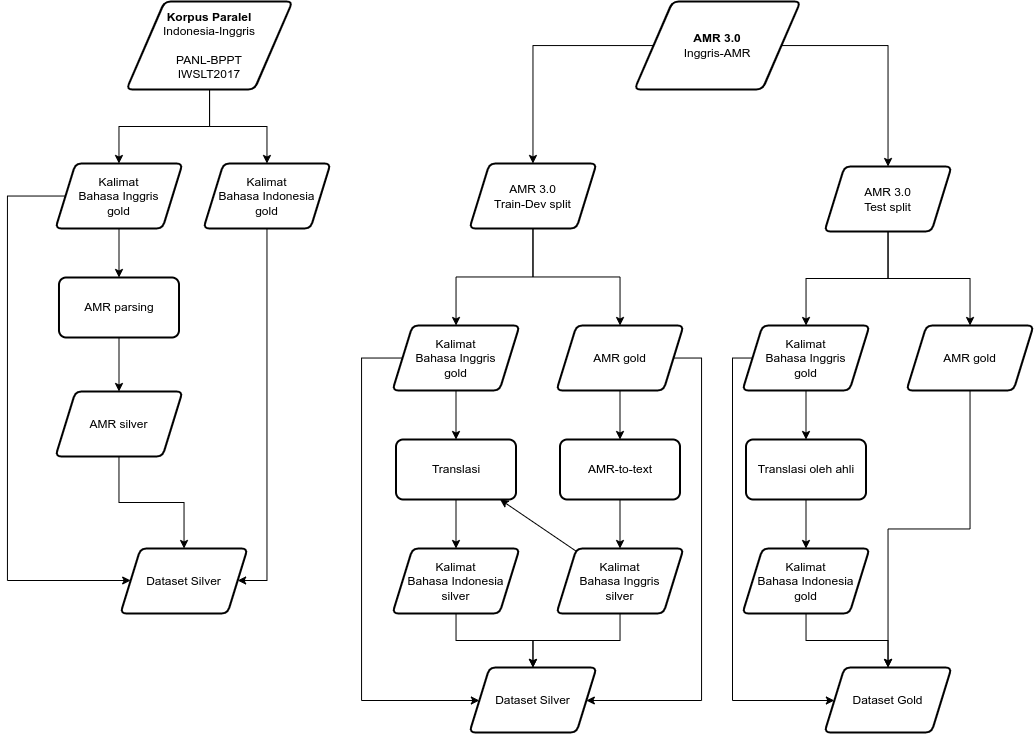
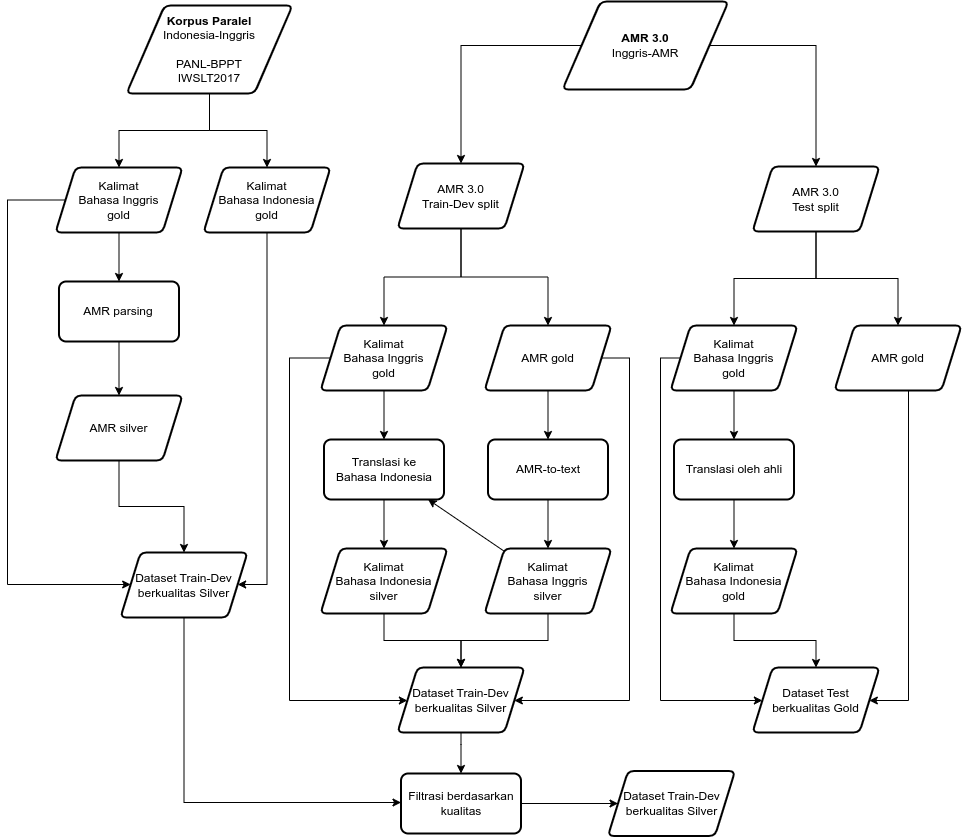
make some revisions

diff --git a/src/sections/chapter-3/3-rancangan-solusi.tex b/src/sections/chapter-3/3-rancangan-solusi.tex
@@ -5,7 +5,6 @@ Pada masalah kurangnya jumlah dataset yang digunakan sebagai data latih model, d
 Diagram alur keseluruhan proses konstruksi dataset gold dan silver dapat dilihat pada \cref{fig:3-dataset-construction}.
 Alur proses konstruksi dataset berkualitas silver mengikuti framework augmentasi data oleh \textcite{lee2022}.
 
-% TODO: Add filtration process.
 \fig[1]{3-dataset-construction}
   {sections/chapter-3/3-dataset-construction.png}
   {Diagram alur untuk konstruksi dataset gold dan silver dari korpus paralel dan dataset AMR.}
@@ -26,36 +25,58 @@ Model AMR-to-text yang digunakan adalah \gls{AMRBART}.
 Kalimat berbahasa Inggris hasil \ti{parsing} tersebut juga diubah menjadi kalimat berbahasa Indonesia dengan menggunakan mesin translasi.
 Maka akan terdapat dua pasangan kalimat berbahasa Inggris dan Indonesia untuk satu buah graf \AMR{}.
 Dua pasangan tersebut dilakukan \ti{cross join} untuk menghasilkan empat pasang data latih berkualitas silver.
-Hasil kumpulan kalimat yang dihasilkan akan digunakan sebagai dataset latih berkualitas silver.
 
-% TODO: Add quality measurement and filtration explanations.
+% Quality measurement and filtration.
+Kumpulan semua dataset silver tersebut kemudian dilakukan filtrasi dengan algoritma 1-NN dengan \cossim{} sebagai fungsi jarak antar representasi kalimatnya.
+Hasil filtrasi yang dihasilkan akan digunakan sebagai dataset latih.
+Dataset latih tersebut juga dihitung kualitasnya menggunakan rata-rata \cossim{}.
 
 % Dataset Gold
 Augmentasi data untuk konstruksi dataset berkualitas gold mengambil bagian Test \ti{split} dari AMR 3.0.
 Bagian kalimat berbahasa Inggris dari Test \ti{split} ditranslasi menjadi Bahasa Indonesia oleh ahli.
 Hasil kalimat berbahasa Indonesia tersebut berkualitas gold dan digunakan sebagai dataset test.
 
-% \fig[0.8]{3-xl-amr-training-schema}
-%   {sections/chapter-3/3-xl-amr-training-schema.png}
-%   {Model pelatihan \crosslingual{} dengan skema bilingual untuk Bahasa Indonesia.}
+\newcommand\graphMasked{\codesm{\textcolor[rgb]{0,.33,0}{<g>$g_1$,..[mask]..,$g_m$</g>}}}
+\newcommand\graphBarMasked{\codesm{\textcolor[rgb]{0,.33,0}{<g>[mask]</g>}}}
+\newcommand\idTagged[1]{\codesm{\textcolor{purple}{<id>#1</id>}}}
+\newcommand\enTagged[1]{\codesm{\textcolor{blue}{<en>#1</en>}}}
+\newcommand\sTagged[1]{\codesm{\textcolor{purple}{<s>#1</s>}}}
 
 % Training Techniques
 Skema pelatihan yang digunakan hanya untuk yang melakukan \amrparsing{} dengan menggunakan skema \ti{bilingual}.
-Pada skema pelatihan \ti{bilingual}, diperlukan sedikit modifikasi untuk melakukan \pretraining{} graf pada teknik \gls{AMRBART}.
+Ilustrasi pelatihan dengan skema \ti{bilingual} dapat dilihat pada \cref{fig:3-bilingual-training-schema}
+Pelatihan dicoba dengan konfigurasi dengan dan tanpa \ti{concatenating}.
+Pada konfigurasi tanpa \ti{concatenating} tetap mengikuti teknik pelatihan sebelumnya yang dapat dilihat pada \cref{tab:3-pt-ft-strategies}.
+Sedangkan pada konfigurasi dengan \ti{concatenating}, diperlukan sedikit modifikasi untuk melakukan \pretraining{} graf pada teknik \gls{AMRBART}.
 Token \code{<s>} yang digunakan pada \gls{AMRBART} diganti menjadi kode bahasa yang digunakan.
 Bahasa Indonesia ditandai dengan token \code{<id>} dan Bahasa Inggris ditandai dengan token \code{<en>}.
-Sesuai dengan skema pelatihan \ti{bilingual}, kalimat berbahasa Indonesia dan Inggris dilinearisasi secara sejajar sebagai input \pretraining{} maupun \finetuning{}.
-Strategi \pretraining{} dan \finetuning{} untuk pelatihan graf model \amrparsing{} lintas bahasa tersebut dapat dilihat pada \cref{tab:3-pt-ft-strategies}.
+Kalimat berbahasa Indonesia dan Inggris dilinearisasi secara sejajar sebagai input \pretraining{} maupun \finetuning{}.
+Strategi \pretraining{} dan \finetuning{} untuk pelatihan graf model \amrparsing{} lintas bahasa tersebut dapat dilihat pada \cref{tab:3-pt-ft-strategies-with-concat}.
 Output dari pelatihan tersebut merupakan graf \AMR{} yang dilinearisasi, yaitu \code{<g>$g_1$,..,$g_m$</g>}.
 Linearisasi graf menggunakan algoritma \gls{DFS} \citek{bevilacqua2021}.
 
-\newcommand\graphMasked{\codesm{\textcolor[rgb]{0,.33,0}{<g>$g_1$,..[mask]..,$g_m$</g>}}}
-\newcommand\graphBarMasked{\codesm{\textcolor[rgb]{0,.33,0}{<g>[mask]</g>}}}
-\newcommand\idTagged[1]{\codesm{\textcolor{red}{<id>#1</id>}}}
-\newcommand\enTagged[1]{\codesm{\textcolor{blue}{<en>#1</en>}}}
+\fig[0.6]{3-bilingual-training-schema}
+  {sections/chapter-3/3-bilingual-training-schema.png}
+  {Pelatihan dengan skema \ti{bilingual}.}
 
-% TODO: Colorize
 \begin{filecontents*}{3-pt-ft-strategies.csv}
+Phase,Task,Input
+PT,\code{$\bar{t}\hat{g}2g$},\makecell[cl]{\sTagged{[mask]}\graphMasked{}}
+,\code{$t\hat{g}2g$},\makecell[cl]{\sTagged{$a_1$,..,$a_n$}\graphMasked{}}
+,\code{$\hat{t}\hat{g}2g$},\makecell[cl]{\sTagged{$a_1$,..[mask]..,$a_n$}\graphMasked{}}
+FT,\code{$t\bar{g}2g$},\makecell[cl]{\sTagged{$a_1$,..,$a_n$}\graphMasked{}}
+\end{filecontents*}
+\tabl{3-pt-ft-strategies}
+  {3-pt-ft-strategies.csv}
+  {
+    Strategi \pretraining{} (PT) dan \finetuning{} (FT) untuk pelatihan graf model \amrparsing{} lintas bahasa pada skema pelatihan \ti{bilingual}.
+    \code{$t/g$} merupakan teks/graf \ti{original}.
+    \code{$\hat{t}/\hat{g}$} merupakan teks/graf yang \ti{noisy} (hasil \denoising{}).
+    \code{$\bar{t}/\bar{g}$} merupakan teks/graf yang hilang.
+    Semua output dari pelatihan ini adalah bentuk graf yang utuh.
+  }
+
+\begin{filecontents*}{3-pt-ft-strategies-with-concat.csv}
 Phase,Task,Input
 PT,\code{$\bar{t}_{_{ID}}\bar{t}{_{_{EN}}}\hat{g}2g$},\makecell[cl]{\idTagged{[mask]}\enTagged{[mask]}\graphMasked{}}
 ,\code{$t_{_{ID}}\bar{t}{_{_{EN}}}\hat{g}2g$},\makecell[cl]{\idTagged{$a_1$,..,$a_{n_1}$}\enTagged{[mask]}\graphMasked{}}
@@ -65,17 +86,27 @@ PT,\code{$\bar{t}_{_{ID}}\bar{t}{_{_{EN}}}\hat{g}2g$},\makecell[cl]{\idTagged{[m
 ,\code{$\hat{t}{_{_{ID}}}t_{_{EN}}\hat{g}2g$},\makecell[cl]{\idTagged{$a_1$,..[mask]..,$a_{n_1}$}\enTagged{$b_1$,..,$b_{n_2}$}\graphMasked{}}
 ,\code{$\hat{t}{_{_{ID}}}\hat{t}{_{_{EN}}}\hat{g}2g$},\makecell[cl]{\idTagged{$a_1$,..[mask]..,$a_{n_1}$}\enTagged{$b_1$,..[mask]..,$b_{n_2}$}\graphMasked{}}
 FT,\code{$t_{_{ID}}\bar{t}{_{_{EN}}}\bar{g}{}2g$},\makecell[cl]{\idTagged{$a_1$,..,$a_{n_1}$}\enTagged{[mask]}\graphBarMasked{}}
+,\code{$\bar{t}{_{_{ID}}}t_{_{EN}}\bar{g}{}2g$},\makecell[cl]{\idTagged{[mask]}\enTagged{$b_1$,..,$b_{n_2}$}\graphBarMasked{}}
 \end{filecontents*}
-\tabl{3-pt-ft-strategies}
-  {3-pt-ft-strategies.csv}
+\tabl{3-pt-ft-strategies-with-concat}
+  {3-pt-ft-strategies-with-concat.csv}
   {
-    Strategi \pretraining{} (PT) dan \finetuning{} (FT) untuk pelatihan graf model \amrparsing{} lintas bahasa pada skema pelatihan \ti{bilingual} dengan teknik data augmentasi \ti{concatenate}.
+    Strategi \pretraining{} (PT) dan \finetuning{} (FT) untuk pelatihan graf model \amrparsing{} lintas bahasa pada skema pelatihan \ti{bilingual} dengan konfigurasi \ti{concatenating}.
     \code{$t/g$} merupakan teks/graf \ti{original}.
     \code{$\hat{t}/\hat{g}$} merupakan teks/graf yang \ti{noisy} (hasil \denoising{}).
     \code{$\bar{t}/\bar{g}$} merupakan teks/graf yang hilang.
+    Semua output dari pelatihan ini adalah bentuk graf yang utuh.
   }
 
-% TODO: Explain data augmentation for masked pre-training language model.
+Pembangunan data latih silver ketika \pretraining{} dilakukan \ti{masking} secara dinamis ketika melakukan training \citek{bai2022}.
+Fungsi \ti{noising} dilakukan secara acak untuk melakukan \ti{masking} sebuah subgraf, 15\% bagian untuk \ti{masking} simpul (konsep), dan/atau 15\% untuk \ti{masking} sisi (relasi).
+Sebuah subgraf minimal memiliki satu simpul dan satu sisi.
+Setiap jenis \ti{noising} tersebut memiliki kemungkinan yang bertambah setiap \ti{step} pelatihan.
+Nilai kemungkinan tersebut dapat dilihat pada \cref{eq:masking-probability}.
+Nilai $p$ merupakan kemungkinan dilakukan \ti{noising}.
+Nilai $t$ merupakan iterasi pelatihan dan $T$ merupakan iterasi maksimal.
+
+\eq{masking-probability}{p = 0.1 + 0.75 \times t/T}
 
 Pelatihan \amrparsing{} akan dicoba pada beberapa \multil{} model.
 Model-model yang akan dicoba adalah mBART, mT5, IndoBART, dan IndoT5.

diff --git a/src/sections/chapter-2/4-2-ensemble.tex b/src/sections/chapter-2/4-2-ensemble.tex
@@ -4,15 +4,48 @@ Kenaikan kinerja dari \amrparsing{} dari penelitian-penelitian sebelumnya tidak 
 Ini dikarenakan efek dari self-learning dan augmentasi silver data mulai berkurang.
 Untuk mengatasi hal tersebut, \textcite{lee2022} mengusulkan untuk menggabungkan teknik \ti{ensemble} berbasis \SMATCH{} \citek{hoang2021} dengan \ti{ensemble distillation} untuk menghasilkan silver data berkualitas tinggi.
 
-Teknik \ti{ensemble} yang diusulkan oleh \textcite{hoang2021} dapat dilihat pada \cref{fig:4-2-graph-ensemble-example}.
+Teknik \ti{ensemble} yang diusulkan oleh \textcite{hoang2021} bernama Algoritma Graphene dapat dilihat pada \cref{fig:4-2-graph-ensemble-example}.
 Ide utamanya adalah dengan memperbaiki sebuah pivot graf berdasarkan graf yang dihasilkan oleh \ti{parser} lain.
 Dari pivot graf, dilakukan \ti{voting} untuk menghitung jumlah simpul dan sisi graf yang berkorelasi.
 Setelah dilakukan \ti{voting}, dipilih simpul dan sisi yang memiliki jumlah voting terbesar sebagai hasil akhir graf tersebut.
 Hal ini dilakukan berulang kali untuk masing-masing graf sebagai pivot awal.
+Tahapan algoritma ini dapat dilihat sebagai pseudo-code pada \cref{alg:4-2-ensemble}
 
 \fig[1]{4-2-graph-ensemble-example}
   {sections/chapter-2/4-2-graph-ensemble-example.png}
   {Ilustrasi teknik \ti{ensemble} \citek{hoang2021}.}
+
+% \alg{4-2-ensemble}{Algoritma Graphene untuk \ti{ensemble} graf \textcite{hoang2021}.}
+% {
+%   \textbf{Input:} a set of graphs $G = {g_1, g_2, ..., g_m}$ and the support threshold $\theta$
+%   \textbf{Output:} an ensemble graph $g^e$
+%   \textbf{Algorithm:} Graphene($G$,$\theta$)
+%   \For{$i \gets 1$ \textbf{to} $m$}
+%     \State $g_{pivot} \gets g_i$
+%     \State $V \gets$ Initialise($g_{pivot}$)
+%   \EndFor
+% }
+\begin{algorithm}
+  \caption{Algoritma Graphene untuk \ti{ensemble} graf \citek{hoang2021}.}
+  \label{alg:4-2-ensemble}
+  \begin{algorithmic}
+    \State \textbf{Input:} a set of graphs $G = \{g_1, g_2, ..., g_m\}$ and the support threshold $\theta$
+    \State \textbf{Output:} an ensemble graph $g^e$
+    \State \textbf{Algorithm:} Graphene($G$,$\theta$)
+    \For{$i \gets 1$ \textbf{to} $m$}
+      \State $g_{pivot} \gets g_i$
+      \State $V \gets$ Initialise($g_{pivot}$)
+      \For{$j \gets 1$ \textbf{to} $m$}
+        \If{$j \neq i$}
+          \State $V \gets V \cup$ getVote($\phi(g_{pivot},g_j)$)
+        \EndIf
+      \EndFor
+      \State $g^e_i \gets Filter(V,\theta)$
+    \EndFor
+    \State $g^e \gets$ the graph with the largest support among $g^e_1,...,g^e_m$
+    \State \Return $g^e$
+  \end{algorithmic}
+\end{algorithm}
 
 \textcite{lee2022} mengusulkan sebuah framework untuk melakukan augmentasi data \AMR{}.
 Ilustrasi framework tersebut dapat dilihat pada \cref{fig:4-2-silver-data-generation-framework}.
@@ -30,11 +63,3 @@ Teknik-teknik yang digunakan untuk menghasilkannya adalah sebagai berikut:
 \fig[1]{4-2-silver-data-generation-framework}
   {sections/chapter-2/4-2-silver-data-generation-framework.png}
   {Framework untuk melakukan augmentasi pasangan data \AMR{} dan kalimat berbahasa Inggris untuk menghasilkan silver data \citek{lee2022}.}
-% Ensemble distillation (Hilton, 2015) mengintegrasikan pengetahuan dari perbedaan model pengajar ke model murid.
-% Untuk model sekuens ke sekuens seperti mesin translasi, dimungkinkan untuk membangun model dengan mengkombinasikan kemungkinan konteks kaya yang diberikan setiap langkah waktu (Kim and Rush, 2016).
-% Parser syntactic dan semantik memodelkan distribusi terhadap grad yang lebih sulit diintegrasikan antara model pengajar dalam cara yang optimal.
-% Pada kasus tertentu seperti dependency parsing, dimunhgkinkan untuk melakukan ensemble pengajar berdasar nosi dari edge attachment yang berhubungan dengan metric evaluasi Label Attachment Score (LAS).
-% Meski demikian, graf AMR cukup kompleks dan tidak diratakan kata per kata.
-% Standar metric Smatch (Cai, 2013) memperkirakan NP-Complete problem dari aligning nodes antara graf menggunakan hill climbing algorithm.
-% Hal ini mengilustrasikan kesulitan mencapai konsensus antara pengajar dalam ensembling AMR.
-

diff --git a/src/sections/chapter-1/1-latar-belakang.tex b/src/sections/chapter-1/1-latar-belakang.tex
@@ -23,17 +23,13 @@ Pendekatan satu tahap jenis \ti{parsing} berbasis graf di mana setiap langkah wa
 Dalam mengukur kelayakan hasil graf \AMR{} yang dihasilkan dari suatu teknik, digunakan metrik \SMATCH{} \citek{cai2013}.
 SMATCH mengukur derajat \ti{overlap} antara dua struktur fitur semantik graf \AMR{}.
 Teknik-teknik \amrparsing{} tersebut diukur kelayakannya menggunakan dataset pasangan teks berbahasa Inggris dengan graf AMR-nya.
-% Dataset yang pertama kali dikeluarkan adalah AMR 1.0 (LDC2014T12) yang mengandung sebanyak 13.051 kalimat.
-% Dataset tersebut kemudian dikembangkan lagi dengan tambahan kalimat dan aturan anotasi menjadi AMR 2.0 (LDC2017T10) sebanyak 39.260 kalimat dan AMR 3.0 (LDC2020T02) sebanyak 59.255 kalimat.
 
 % ID-ID Conventional AMR Parsing
 Pada \AMR{} berbahasa Indonesia, telah dikembangkan untuk \ti{parsing} berbasis aturan \citek{severina2019}, berbasis \ti{dependency parser} \citek{ilmy2020}, dan berbasis \crosslingual{} \citek{putra2022}.
 Teknik \amrparsing{} berbasis aturan dan \ti{dependency parser} masih terbatas karena kurangnya panduan anotasi dan PropBank untuk adaptasi \AMR{} dalam Bahasa Indonesia.
 Dataset yang digunakan sebagai data pelatihan teknik tersebut terdiri dari 1,130 pasang kalimat dan AMR berbahasa Indonesia.
-Jumlah dataset tersebut masih sangat kurang untuk menghasilkan model yang berkualitas tinggi jika dibandingkan dengan jumlah dataset berbahasa Inggris yang memiliki 59.255 pasang.
-Anotasi untuk \AMR{} Bahasa Indonesia hanya terbatas pada 6 relasi saja, yaitu \code{:ARG0}, \code{:ARG1}, \code{:name}, \code{:time}, \code{:location}, \code{:mod} \citek{ilmy2020}.
-Konsep yang membutuhkan argumen relasi lebih banyak yang tidak tersedia akan diabaikan.
-Sehingga AMR Bahasa Indonesia tidak dapat merepresentasikan kalimat yang lebih panjang dan kompleks.
+Anotasi pada dataset tersebut hanya terbatas pada 6 relasi saja, yaitu \code{:ARG0}, \code{:ARG1}, \code{:name}, \code{:time}, \code{:location}, \code{:mod} \citek{ilmy2020}.
+Konsep yang membutuhkan argumen relasi lebih banyak yang tidak tersedia akan diabaikan sehingga AMR Bahasa Indonesia tidak dapat merepresentasikan kalimat yang lebih panjang dan kompleks.
 
 % XL-AMR
 \amrparsing{} awalnya digunakan untuk mengubah dari kalimat berbahasa Inggris menjadi sebuah graf \AMR{} berbahasa Inggris.
@@ -60,10 +56,10 @@ Kalimat Bahasa Inggris dari dataset AMR 2.0 ditranslasi menjadi Bahasa Indonesia
 Namun, kualitas dataset hasil \amrparsing{} dari korpus paralel tidak dievaluasi.
 Model terbaik dari penelitian \textcite{putra2022} menghasilkan kinerja SMATCH 51.0.
 Kinerja tersebut masih kalah dengan \ti{baseline}-nya yang menggunakan teknik \ti{translate-and-parse} dengan kinerja SMATCH 62.5.
-Hal ini diduga karena jumlah dataset yang dihasilkan masih belum maksimal dan dataset yang dihasilkan belum menggunakan model AMR parser dengan kualitas yang lebih baik.
+Hal ini diduga karena jumlah dan kualitas dataset yang dihasilkan masih belum maksimal, dan model yang dihasilkan belum menggunakan teknik pelatihan model yang lebih baik.
 
 \textcite{lee2022} memperkenalkan teknik augmentasi data dalam menghasilkan data latih untuk model \amrparsing{} lintas bahasa.
-Karena keterbatasan jumlah dataset yang dipunya untuk melatih model \amrparsing{} lintas bahasa, teknik ini menghasilkan lebih banyak pasangan graf \AMR{} dan kalimat dengan bahasa yang dituju.
+Teknik ini menghasilkan lebih banyak pasangan graf \AMR{} dan kalimat dengan bahasa yang dituju, sehingga karena variasi data tersebut, model yang dilatih dapat menghasilkan kinerja yang lebih baik.
 Teknik tersebut meningkatkan kinerja SMATCH pada model XL-AMR \citek{blloshmi2020} menjadi 63.0 untuk Bahasa Cina, 73.7 untuk Bahasa Jernam, 76.1 untuk Bahasa Italia, dan 77.1 untuk Bahasa Spanyol.
 
 % AMRBART

diff --git a/src/sections/chapter-2/3-language-model.tex b/src/sections/chapter-2/3-language-model.tex
@@ -52,8 +52,20 @@ Dalam menangani \ti{task} yang memerlukan lebih dari satu bahasa, seperti mesin 
 Model \multil{} dapat dibangun dengan menambahkan \ti{vocabulary} dari bahasa lain dalam data \ti{training}.
 \gls{BERT} juga dapat digunakan untuk menghasilkan \mwordem{} dengan dilatih menggunakan dataset yang terdiri dari 101 bahasa untuk menghasilkan \multil{} model bernama mBERT.
 Terdapat variasi \gls{BERT} yang digunakan sebagai \mwordem{} yang tidak terikat ke bahasa apapun, yaitu \gls{LABSE} \citek{feng2022}.
+\gls{LABSE} berusaha merepresentasikan kalimat dalam bahasa yang berbeda-beda menjadi satu representasi yang sama.
 \gls{BART} juga dikembangkan untuk menghasilkan representasi \mwordem{} bernama mBART \citek{liu2020}.
 
 Model berbasis transformer lain bernama T5 \citek{raffel2020} merupakan model yang dilatih dengan campuran \ti{task} \ti{unsupervised} dan \ti{supervised}.
 T5 bekerja dengan baik untuk berbagai macam \ti{task} seperti peringkasan teks dan translasi.
 Model T5 juga dikembangkan untuk \mwordem{} bernama mT5 \citek{xue2021} yang dilatih pada Common Crawl yang memiliki 101 bahasa.
+
+\gls{XLM} menunjukkan sebuah teknik \pretraining{} lain untuk memanfaatkan korpus paralel.
+\gls{XLM} memanfaatkan kombinasi \gls{MLM} dan \gls{TLM}.
+Teknik \pretraining{} \gls{MLM} mengikuti cara \pretraining{} \gls{BERT}, yaitu dengan melakukan \ti{masking} pada beberapa kata dari input.
+Teknik \pretraining{} \gls{TLM} melakukan \ti{concatenation} antara dua kalimat dari bahasa yang berbeda.
+Kalimat dari bahasa yang berbeda tersebut dianggap sebagai \ti{next sentence} pada model \gls{BERT} dengan mengulang kembali \ti{position embeddings} dari indeks awal kembali.
+Ilustrasi \pretraining{} \gls{XLM} dapat dilihat pada \cref{fig:3-xlm-pretraining}.
+
+\fig[1]{3-xlm-pretraining}
+  {sections/chapter-2/3-xlm-pretraining.png}
+  {\Glsfirst{XLM} \pretraining{} \citek{conneau2019}.}

diff --git a/src/sections/chapter-3/2-analisis-solusi.tex b/src/sections/chapter-3/2-analisis-solusi.tex
@@ -20,7 +20,7 @@ Jumlah dataset silver dapat diperbanyak dengan cara-cara berikut:
 Peningkatan kualitas dataset silver dapat dilakukan dengan menggunakan teknik \ti{ensemble} oleh \textcite{hoang2021}.
 Berdasarkan hasil penelitian \textcite{lee2022}, teknik \ti{ensembling} 5 model \amrparser{} dapat meningkatkan kualitas dataset silver secara signifikan.
 
-Kualitas dataset silver dapat diukur dengan menghitung \cossim{} dari \multil{} \ti{sentence embedding} dari pasangan kalimat Bahasa Indonesia dan Bahasa Inggris.
+Kualitas dataset silver dapat diukur dengan menghitung \cossim{} dari \multil{} \ti{sentence embedding} dari pasangan kalimat Bahasa Indonesia dan Bahasa Inggris \citek{blloshmi2020}.
 Model \mwordem{} yang digunakan untuk mendapatkan \multil{} \ti{sentence embedding} dari sebuah kalimat adalah \gls{LABSE} \citek{feng2022}.
 Dalam meningkatkan kualitas dataset silver tersebut, dapat dilakukan dilakukan filtrasi untuk menghapus hasil translasi yang buruk.
 Filtrasi dilakukan dengan mengaplikasikan algoritma \gls{1-NN} dengan \cossim{} sebagai nilai kedekatan antar kalimat berbahasa Inggris dan hasil translasinya.
